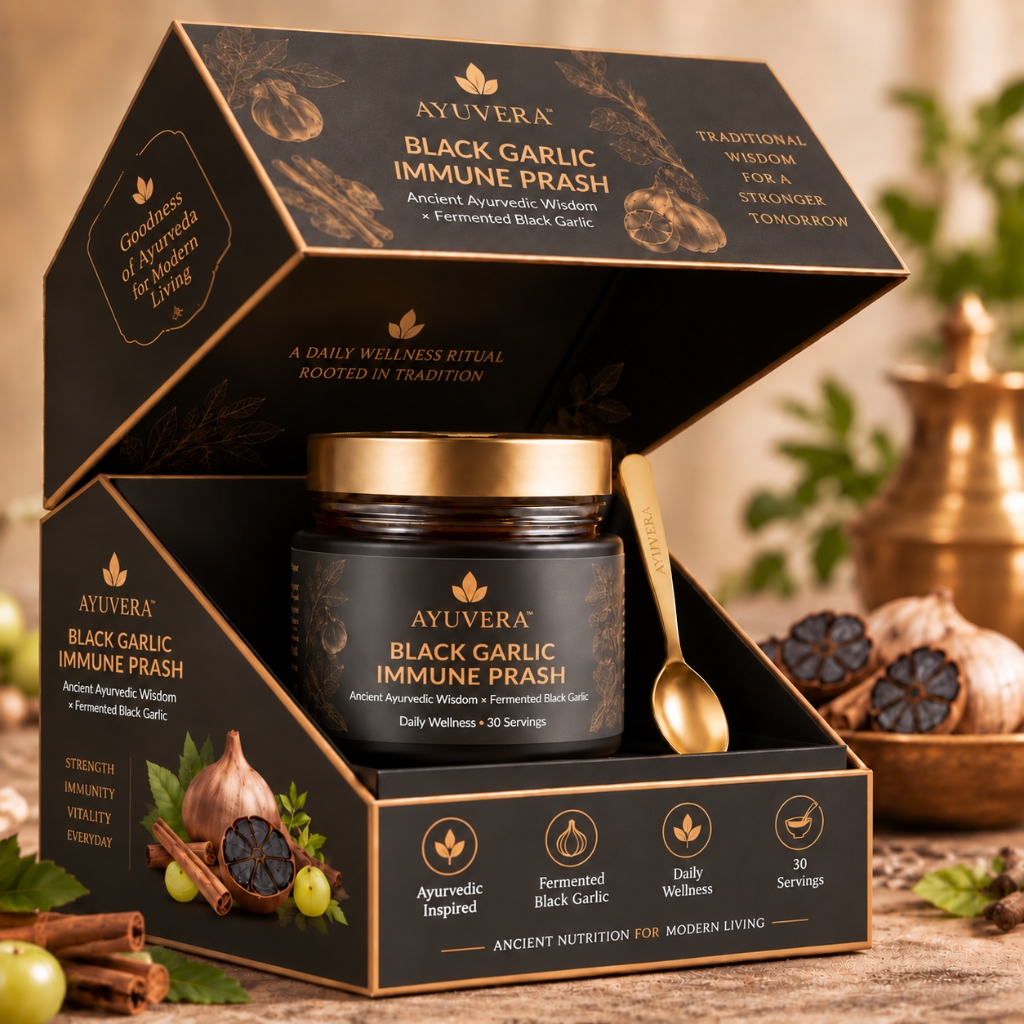
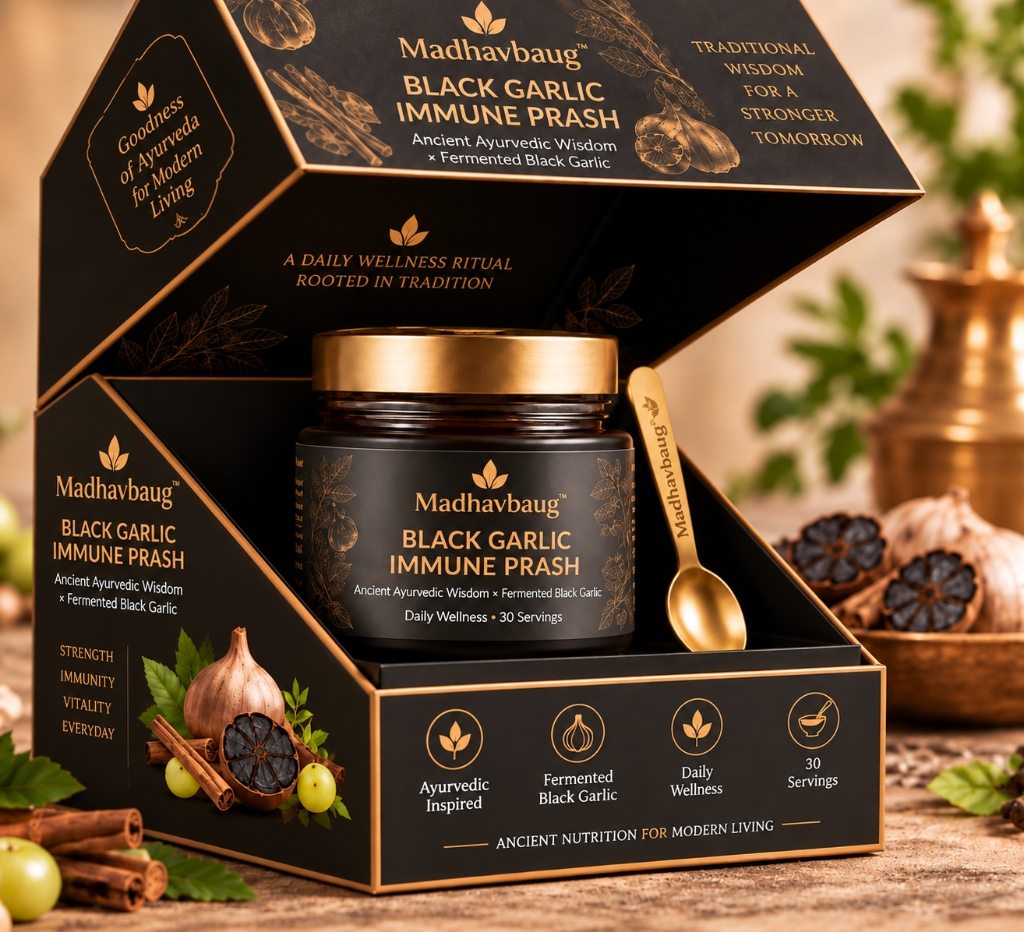
added image madhavbaug

diff --git a/index.html b/index.html
@@ -3,8 +3,8 @@
 <head>
   <meta charset="UTF-8">
   <meta name="viewport" content="width=device-width, initial-scale=1.0">
-  <title>Ayuvera Immunity Prash — Ayurvedic Immunity Booster Against Flu, Viral & H1N1 Infections</title>
-  <meta name="description" content="Ayuvera Immunity Prash: फ्लू, सीजनल वायरस और H1N1 संक्रमण से सुरक्षा के लिए 100% प्राकृतिक आयुर्वेदिक फॉर्मूलेशन। Fermented Black Garlic, गिलोय, तुलसी और शुद्ध आंवला के साथ सम्पूर्ण Immunity Rasayana।">
+  <title>Madhavbaug Immunity Prash — Ayurvedic Immunity Booster Against Flu, Viral & H1N1 Infections</title>
+  <meta name="description" content="Madhavbaug Immunity Prash: फ्लू, सीजनल वायरस और H1N1 संक्रमण से सुरक्षा के लिए 100% प्राकृतिक आयुर्वेदिक फॉर्मूलेशन। Fermented Black Garlic, गिलोय, तुलसी और शुद्ध आंवला के साथ सम्पूर्ण Immunity Rasayana।">
   <link rel="stylesheet" href="assets/css/style.css">
 </head>
 <body>
@@ -27,8 +27,8 @@
   <!-- Navigation Bar -->
   <nav class="navbar" id="navbar">
     <div class="container nav-container">
-      <a href="#" class="brand-logo" aria-label="Ayuvera Immunity Care">
-        <img src="assets/images/logo.png" alt="AYUVERA" class="brand-logo-img">
+      <a href="#" class="brand-logo" aria-label="Madhavbaug Immunity Care">
+        <img src="assets/images/logo.png" alt="MADHAVBAUG" class="brand-logo-img">
       </a>
 
       <ul class="nav-links">
@@ -53,13 +53,13 @@
         <div class="gallery-wrapper">
           <div class="gallery-thumbnails" id="galleryThumbs">
             <div class="thumb-item active" data-slide="0">
-              <img src="assets/images/hero_jar.jpg" alt="Ayuvera Immunity Prash for Flu and Viral Defense Front">
+              <img src="assets/images/hero_jar.jpg" alt="Madhavbaug Immunity Prash for Flu and Viral Defense Front">
             </div>
             <div class="thumb-item" data-slide="1">
-              <img src="assets/images/product_spoon_texture.jpg" alt="Ayuvera Immunity Prash 100% Natural Ayurvedic Care Spoon Texture">
+              <img src="assets/images/product_spoon_texture.jpg" alt="Madhavbaug Immunity Prash 100% Natural Ayurvedic Care Spoon Texture">
             </div>
             <div class="thumb-item" data-slide="2">
-              <img src="assets/images/product_kitchen_table.jpg" alt="Ayuvera Immunity Prash Jar with Amla & Black Garlic">
+              <img src="assets/images/product_kitchen_table.jpg" alt="Madhavbaug Immunity Prash Jar with Amla & Black Garlic">
             </div>
           </div>
 
@@ -69,13 +69,13 @@
             <div class="gallery-slider-viewport" id="galleryViewport">
               <div class="gallery-slider-track" id="galleryTrack">
                 <div class="gallery-slide active" data-slide="0">
-                  <img src="assets/images/hero_jar.jpg" alt="Ayuvera Immunity Prash for Viral Protection Front" loading="eager">
+                  <img src="assets/images/hero_jar.jpg" alt="Madhavbaug Immunity Prash for Viral Protection Front" loading="eager">
                 </div>
                 <div class="gallery-slide" data-slide="1">
-                  <img src="assets/images/product_spoon_texture.jpg" alt="Ayuvera Immunity Prash 100% Natural Ayurvedic Care Spoon Texture" loading="eager">
+                  <img src="assets/images/product_spoon_texture.jpg" alt="Madhavbaug Immunity Prash 100% Natural Ayurvedic Care Spoon Texture" loading="eager">
                 </div>
                 <div class="gallery-slide" data-slide="2">
-                  <img src="assets/images/product_kitchen_table.jpg" alt="Ayuvera Immunity Prash Jar with Amla & Black Garlic" loading="eager">
+                  <img src="assets/images/product_kitchen_table.jpg" alt="Madhavbaug Immunity Prash Jar with Amla & Black Garlic" loading="eager">
                 </div>
               </div>
             </div>
@@ -113,7 +113,7 @@
             <span class="product-servings-badge">30 दिन की खुराक</span>
           </div>
 
-          <h1 class="product-main-title">Ayuvera Immunity Prash</h1>
+          <h1 class="product-main-title">Madhavbaug Immunity Prash</h1>
           <p class="product-subheadline">Ayurvedic Immune Rasayana for Defense Against Flu, Seasonal Viruses & H1N1 Infections</p>
 
           <!-- Free 24 Carat Gold Spoon Offer Highlight -->
@@ -144,18 +144,18 @@
               <span style="color: var(--antique-gold); font-weight: 600;">30 दिन प्रति जार</span>
             </div>
             <div class="bundle-options-grid">
-              <div class="bundle-card active" data-price="1899" data-original="2499" data-discount="24% की बचत" data-title="1 जार (Ayuvera Immunity Prash • 30 दिन की खुराक)">
+              <div class="bundle-card active" data-price="1899" data-original="2499" data-discount="24% की बचत" data-title="1 जार (Madhavbaug Immunity Prash • 30 दिन की खुराक)">
                 <div class="bundle-title">Single Jar</div>
                 <div class="bundle-save">Viral & Flu Shield</div>
                 <div class="bundle-price">₹1,899</div>
               </div>
-              <div class="bundle-card" data-price="3499" data-original="4998" data-discount="30% की अतिरिक्त छूट" data-title="Duo Pack (Ayuvera Immunity Prash • 60 दिन की खुराक)">
+              <div class="bundle-card" data-price="3499" data-original="4998" data-discount="30% की अतिरिक्त छूट" data-title="Duo Pack (Madhavbaug Immunity Prash • 60 दिन की खुराक)">
                 <span class="badge-popular">सबसे लोकप्रिय</span>
                 <div class="bundle-title">Duo Pack (2 जार)</div>
                 <div class="bundle-save">पूर्ण मौसमी सुरक्षा</div>
                 <div class="bundle-price">₹3,499</div>
               </div>
-              <div class="bundle-card" data-price="4899" data-original="7497" data-discount="35% की अतिरिक्त छूट" data-title="Family Pack (Ayuvera Immunity Prash • 90 दिन की खुराक)">
+              <div class="bundle-card" data-price="4899" data-original="7497" data-discount="35% की अतिरिक्त छूट" data-title="Family Pack (Madhavbaug Immunity Prash • 90 दिन की खुराक)">
                 <div class="bundle-title">Family Pack (3 जार)</div>
                 <div class="bundle-save">पूरे परिवार का सुरक्षा कवच</div>
                 <div class="bundle-price">₹4,899</div>
@@ -223,9 +223,9 @@
   <!-- ==========================================================================
        FULL-WIDTH HERO BANNER — BLACK GARLIC, GILOY, TULSI & AMLA
        ========================================================================== -->
-  <section class="full-bleed-banner-section" aria-label="Ayuvera Immunity Prash Ingredients Overview">
+  <section class="full-bleed-banner-section" aria-label="Madhavbaug Immunity Prash Ingredients Overview">
     <div class="full-bleed-banner-wrap">
-      <img src="assets/images/black_garlic_banner.jpg" alt="Ayuvera Immunity Prash - Fermented Black Garlic, Giloy, Tulsi, Amla & Herbal Blend" class="full-bleed-banner-img" loading="lazy">
+      <img src="assets/images/black_garlic_banner.jpg" alt="Madhavbaug Immunity Prash - Fermented Black Garlic, Giloy, Tulsi, Amla & Herbal Blend" class="full-bleed-banner-img" loading="lazy">
     </div>
   </section>
 
@@ -244,7 +244,7 @@
 
       <div class="editorial-story-card">
         <div class="editorial-transformation-img">
-          <img src="assets/images/black_garlic_pure.jpg" alt="Ayuvera Fermented Black Garlic for Immunity and Viral Defense" loading="lazy">
+          <img src="assets/images/black_garlic_pure.jpg" alt="Madhavbaug Fermented Black Garlic for Immunity and Viral Defense" loading="lazy">
         </div>
 
         <div class="garlic-benefits-grid">
@@ -325,7 +325,7 @@
         <div class="eyebrow">सत्यापित ग्राहक अनुभव</div>
         <h2 class="section-title">Real Customer Real Reviews</h2>
         <p class="section-subtitle">
-          Ayuvera Immunity Prash से फ्लू, बार-बार होने वाले जुकाम और वायरल से सुरक्षित हुए परिवारों के वास्तविक WhatsApp चैट्स
+          Madhavbaug Immunity Prash से फ्लू, बार-बार होने वाले जुकाम और वायरल से सुरक्षित हुए परिवारों के वास्तविक WhatsApp चैट्स
         </p>
       </div>
 
@@ -341,7 +341,7 @@
             </span>
           </div>
           <div class="proof-img-wrap">
-            <img src="assets/images/whatsapp_reviews.jpg" alt="Ayuvera Immunity Prash Real Customer Real Reviews" class="proof-img" loading="lazy">
+            <img src="assets/images/whatsapp_reviews.jpg" alt="Madhavbaug Immunity Prash Real Customer Real Reviews" class="proof-img" loading="lazy">
           </div>
         </div>
       </div>
@@ -388,7 +388,7 @@
 
         <!-- Center: Uploaded Visual with Transparent Background -->
         <div class="ingredient-center-img-wrap">
-          <img src="assets/images/selected_ingredients.png" alt="Ayuvera Immunity Prash Formulation and Ingredients">
+          <img src="assets/images/selected_ingredients.png" alt="Madhavbaug Immunity Prash Formulation and Ingredients">
         </div>
 
         <!-- Right Side: 4 Ingredients -->
@@ -422,9 +422,9 @@
   <!-- ==========================================================================
        FULL-WIDTH BANNER — IMMUNITY CARE CHYAWANPRASH
        ========================================================================== -->
-  <section class="full-bleed-banner-section" id="why-black-garlic" aria-label="Ayuvera Immunity Care Chyawanprash Benefits Overview">
+  <section class="full-bleed-banner-section" id="why-black-garlic" aria-label="Madhavbaug Immunity Care Chyawanprash Benefits Overview">
     <div class="full-bleed-banner-wrap">
-      <img src="assets/images/immunity_care_banner.png" alt="Stronger Immunity for a Healthier Tomorrow - Ayuvera Black Garlic Immune Prash" class="full-bleed-banner-img" loading="lazy">
+      <img src="assets/images/immunity_care_banner.png" alt="Stronger Immunity for a Healthier Tomorrow - Madhavbaug Black Garlic Immune Prash" class="full-bleed-banner-img" loading="lazy">
     </div>
   </section>
 
@@ -435,14 +435,14 @@
     <div class="container">
       <div class="texture-grid">
         <div class="texture-visual-wrap">
-          <img src="assets/images/product_spoon_texture.jpg" alt="Ayuvera Immunity Prash for Viral Protection Spoon Texture">
+          <img src="assets/images/product_spoon_texture.jpg" alt="Madhavbaug Immunity Prash for Viral Protection Spoon Texture">
         </div>
 
         <div>
           <div class="eyebrow">स्वाद, सुरक्षा और बनावट</div>
           <h2 class="section-title">Pure Immune Nutrition.<br><em>Gentle on Throat & Digestion.</em></h2>
           <p class="section-subtitle" style="margin-left: 0; text-align: left;">
-            कड़वे काढ़ों और तीखे कच्चे लहसुन के विपरीत, Ayuvera Immunity Prash है मक्खन जैसा मुलायम, सौम्य और प्राकृतिक रूप से स्वादिष्ट — जो गले को तुरंत सुकून देता है और बिना एसिडिटी किए शरीर में गहरा पोषण पहुंचाता है।
+            कड़वे काढ़ों और तीखे कच्चे लहसुन के विपरीत, Madhavbaug Immunity Prash है मक्खन जैसा मुलायम, सौम्य और प्राकृतिक रूप से स्वादिष्ट — जो गले को तुरंत सुकून देता है और बिना एसिडिटी किए शरीर में गहरा पोषण पहुंचाता है।
           </p>
 
           <div class="texture-features-list">
@@ -502,7 +502,7 @@
         <div class="eyebrow">दैनिक सेवन विधि व 24K स्वर्ण चम्मच अनुष्ठान</div>
         <h2 class="section-title">How to Use & 24K Gold Spoon Benefits</h2>
         <p class="section-subtitle">
-          जानिए Ayuvera Immunity Prash के सेवन का सही तरीका और हर जार के साथ मुफ़्त मिलने वाली 24K गोल्ड चम्मच से खाने के विशेष आयुर्वेदिक रोग-प्रतिरोधक लाभ
+          जानिए Madhavbaug Immunity Prash के सेवन का सही तरीका और हर जार के साथ मुफ़्त मिलने वाली 24K गोल्ड चम्मच से खाने के विशेष आयुर्वेदिक रोग-प्रतिरोधक लाभ
         </p>
       </div>
 
@@ -511,7 +511,7 @@
         <!-- Left Visual Box with Gold Spoon Highlight -->
         <div class="how-to-use-visual-col">
           <div class="how-to-use-img-card">
-            <img src="assets/images/gold_spoon_ritual.jpg" alt="Ayuvera Immunity Prash with 24K Gold Spoon Ritual" class="how-to-use-img" loading="lazy">
+            <img src="assets/images/gold_spoon_ritual.jpg" alt="Madhavbaug Immunity Prash with 24K Gold Spoon Ritual" class="how-to-use-img" loading="lazy">
             <div class="gold-spoon-floating-badge">
               <span class="gold-sparkle">✨</span>
               <div>
@@ -698,7 +698,7 @@
             </span>
           </div>
           <div class="proof-img-wrap">
-            <img src="assets/images/amazon_reviews.jpg" alt="Ayuvera Immunity Prash Amazon Reviews" class="proof-img" loading="lazy">
+            <img src="assets/images/amazon_reviews.jpg" alt="Madhavbaug Immunity Prash Amazon Reviews" class="proof-img" loading="lazy">
           </div>
         </div>
       </div>
@@ -714,7 +714,7 @@
       <div class="faq-consultation-card text-center">
         <!-- Brand Logo -->
         <div class="faq-logo-wrap">
-          <img src="assets/images/logo.png" alt="AYUVERA" class="faq-brand-logo">
+          <img src="assets/images/logo.png" alt="MADHAVBAUG" class="faq-brand-logo">
         </div>
 
         <div class="eyebrow" style="margin-bottom: 8px;">निःशुल्क विशेषज्ञ इम्यूनिटी व वायरल स्वास्थ्य परामर्श</div>
@@ -725,7 +725,7 @@
 
         <!-- Description -->
         <p class="faq-consultation-desc">
-          बार-बार फ्लू, बदलते मौसम में जुकाम-खांसी, H1N1 व वायरल से बचाव, और <strong>Ayuvera Immunity Prash</strong> के नियमित सेवन से जुड़े किसी भी सवाल के लिए हमारे वरिष्ठ आयुर्वेदिक डॉक्टरों से सीधे मुफ्त परामर्श पाएं।
+          बार-बार फ्लू, बदलते मौसम में जुकाम-खांसी, H1N1 व वायरल से बचाव, और <strong>Madhavbaug Immunity Prash</strong> के नियमित सेवन से जुड़े किसी भी सवाल के लिए हमारे वरिष्ठ आयुर्वेदिक डॉक्टरों से सीधे मुफ्त परामर्श पाएं।
         </p>
 
         <!-- Trust Badges -->
@@ -760,14 +760,14 @@
         <div class="final-cta-grid">
           
           <div class="final-cta-img-wrap">
-            <img src="assets/images/hero_jar.jpg" alt="Ayuvera Immunity Prash for Viral & Flu Defense">
+            <img src="assets/images/hero_jar.jpg" alt="Madhavbaug Immunity Prash for Viral & Flu Defense">
           </div>
 
           <div>
             <div class="eyebrow" style="margin-bottom: 8px;">मजबूत इम्यूनिटी व स्वस्थ फेफड़ों की नई शुरुआत</div>
             <h2 class="section-title" style="font-size: 2.3rem; margin-bottom: 8px;">Shield Your Body Against Flu & Viral<br><em>With Ancient Ayurvedic Rasayana</em></h2>
             <div style="font-size: 1.15rem; font-family: var(--font-serif); font-style: italic; color: var(--antique-gold); margin-bottom: 6px;">
-              Ayuvera Immunity Prash
+              Madhavbaug Immunity Prash
             </div>
             <div style="font-size: 0.95rem; font-weight: 600; color: var(--herbal-green-dark); margin-bottom: 4px;">
               Pure Black Garlic, Giloy & Tulsi Formulation • Antiviral & Flu Support
@@ -810,22 +810,22 @@
         
         <div class="footer-col">
           <div class="brand-logo" style="margin-bottom: 16px;">
-            <img src="assets/images/logo.png" alt="AYUVERA" class="brand-logo-img" style="height: 52px;">
+            <img src="assets/images/logo.png" alt="MADHAVBAUG" class="brand-logo-img" style="height: 44px; max-width: 220px;">
           </div>
           <p style="font-size: 0.88rem; line-height: 1.6; margin-bottom: 16px;">
             आयुर्वेद की प्राचीन ओजस रसायन परंपरा और आधुनिक बायो-फर्मेंटेशन के संगम से मजबूत रोग-प्रतिरोधक क्षमता, स्वस्थ श्वसन तंत्र और निरोगी जीवन पहुंचाना हमारा संकल्प है।
           </p>
           <div style="font-size: 0.82rem; color: var(--text-muted);">
-            📍 Ayuvera Immunity Labs • दिल्ली एवं बेंगलुरु, भारत
+            📍 Madhavbaug Immunity Labs • दिल्ली एवं बेंगलुरु, भारत
           </div>
         </div>
 
         <div class="footer-col">
-          <h4>Ayuvera Immunity क्लब</h4>
+          <h4>Madhavbaug Immunity क्लब</h4>
           <p style="font-size: 0.86rem; margin-bottom: 14px; line-height: 1.55;">
             मौसमी बीमारियों से बचाव, डाइट टिप्स, काढ़ा विधियां और विशेष आयुर्वेदिक सुझाव सीधे अपने ईमेल पर पाएं।
           </p>
-          <form class="newsletter-form" onsubmit="event.preventDefault(); alert('Ayuvera Immunity क्लब में जुड़ने के लिए धन्यवाद!');">
+          <form class="newsletter-form" onsubmit="event.preventDefault(); alert('Madhavbaug Immunity क्लब में जुड़ने के लिए धन्यवाद!');">
             <input type="email" class="newsletter-input" placeholder="अपना ईमेल दर्ज करें" required>
             <button class="btn btn-primary" style="padding: 10px 18px; font-size: 0.82rem;">जुड़ें</button>
           </form>
@@ -835,7 +835,7 @@
 
       <div class="footer-bottom" style="justify-content: center; text-align: center;">
         <div>
-          © 2026 Ayuvera Wellness Pvt Ltd. All rights reserved. यह उत्पाद आहार पूरक है और स्वस्थ जीवनशैली व संतुलित खान-पान के साथ सर्वोत्तम परिणाम देता है।
+          © 2026 Madhavbaug Wellness Pvt Ltd. All rights reserved. यह उत्पाद आहार पूरक है और स्वस्थ जीवनशैली व संतुलित खान-पान के साथ सर्वोत्तम परिणाम देता है।
         </div>
       </div>
     </div>
@@ -848,7 +848,7 @@
     <div class="sticky-product-info">
       <img src="assets/images/hero_jar.jpg" class="sticky-thumb" alt="Jar Thumbnail">
       <div class="sticky-text-wrap">
-        <div class="sticky-title">Ayuvera Immunity Prash</div>
+        <div class="sticky-title">Madhavbaug Immunity Prash</div>
         <div class="sticky-price">₹1,899 <span class="sticky-strike">₹2,499</span></div>
       </div>
     </div>

diff --git a/assets/js/main.js b/assets/js/main.js
@@ -1,5 +1,5 @@
 /**
- * Ayuvera - Black Garlic Immunity Prash Landing Page Logic
+ * Madhavbaug - Black Garlic Immunity Prash Landing Page Logic
  */
 
 document.addEventListener('DOMContentLoaded', () => {
@@ -165,7 +165,7 @@ document.addEventListener('DOMContentLoaded', () => {
 
   // 2. Pricing & Bundle Selector State
   let currentBundle = {
-    title: '1 जार (Ayuvera Immunity Prash • 30 दिन की खुराक)',
+    title: '1 जार (Madhavbaug Immunity Prash • 30 दिन की खुराक)',
     price: 1899,
     originalPrice: 2499,
     savings: '24% की बचत'
@@ -260,7 +260,7 @@ document.addEventListener('DOMContentLoaded', () => {
             <path d="M20.84 4.61a5.5 5.5 0 0 0-7.78 0L12 5.67l-1.06-1.06a5.5 5.5 0 0 0-7.78 7.78l1.06 1.06L12 21.23l7.78-7.78 1.06-1.06a5.5 5.5 0 0 0 0-7.78z"></path>
           </svg>
           <p style="font-weight: 700; font-size: 1.1rem; color: var(--herbal-green-dark);">आपकी Heart Care कार्ट खाली है</p>
-          <p style="font-size: 0.9rem; margin-top: 6px;">अपने दिल की सेहत, कोलेस्ट्रॉल और ब्लड प्रेशर संतुलन के लिए Ayuvera Hradaya Prash जोड़ें।</p>
+          <p style="font-size: 0.9rem; margin-top: 6px;">अपने दिल की सेहत, कोलेस्ट्रॉल और ब्लड प्रेशर संतुलन के लिए Madhavbaug Hradaya Prash जोड़ें।</p>
         </div>
       `;
       if (cartSubtotal) cartSubtotal.textContent = '₹0';
@@ -315,7 +315,7 @@ document.addEventListener('DOMContentLoaded', () => {
         existing.qty += quantity;
       } else {
         cartItems.push({
-          title: `Ayuvera Hradaya Prash (${currentBundle.title})`,
+          title: `Madhavbaug Immunity Prash (${currentBundle.title})`,
           price: currentBundle.price,
           qty: quantity,
           img: 'assets/images/hero_jar.jpg'
@@ -355,7 +355,7 @@ document.addEventListener('DOMContentLoaded', () => {
 
   // Local 24-Hour Cooldown Check Helpers
   function getPhoneStorageKey(phone) {
-    return `ayuvera_lead_${phone}`;
+    return `madhavbaug_lead_${phone}`;
   }
 
   function isPhoneSubmittedWithin24Hours(phone) {
@@ -520,9 +520,9 @@ document.addEventListener('DOMContentLoaded', () => {
         name: name,
         contact: cleanPhone,
         city: city,
-        bundle: currentBundle ? currentBundle.title : 'Ayuvera Immunity Prash (1 Jar)',
+        bundle: currentBundle ? currentBundle.title : 'Madhavbaug Immunity Prash (1 Jar)',
         price: currentBundle ? `₹${currentBundle.price.toLocaleString('en-IN')}` : '₹1,899',
-        source: 'Ayuvera Immunity Official Website'
+        source: 'Madhavbaug Immunity Official Website'
       };
 
       try {

diff --git a/google_apps_script.js b/google_apps_script.js
@@ -52,7 +52,7 @@ function handleLeadSubmission(e) {
     var rawContact = (data.contact || data.phone || "").toString();
     var cleanContact = rawContact.replace(/\D/g, "").slice(-10);
     var city = (data.city || "-").toString().trim();
-    var bundle = (data.bundle || "Ayuvera Immunity Prash").toString().trim();
+    var bundle = (data.bundle || "Madhavbaug Immunity Prash").toString().trim();
     var price = (data.price || "₹1,899").toString().trim();
     var source = (data.source || "Website Form").toString().trim();
 

diff --git a/assets/css/style.css b/assets/css/style.css
@@ -397,9 +397,9 @@ textarea {
 }
 
 .brand-logo-img {
-  height: 52px;
+  height: 46px;
   width: auto;
-  max-width: 170px;
+  max-width: 220px;
   object-fit: contain;
   display: block;
   transition: transform 0.3s ease;
@@ -2553,7 +2553,7 @@ textarea {
 .faq-brand-logo {
   height: 52px;
   width: auto;
-  max-width: 180px;
+  max-width: 250px;
   object-fit: contain;
   display: inline-block;
   transition: transform 0.3s ease;
